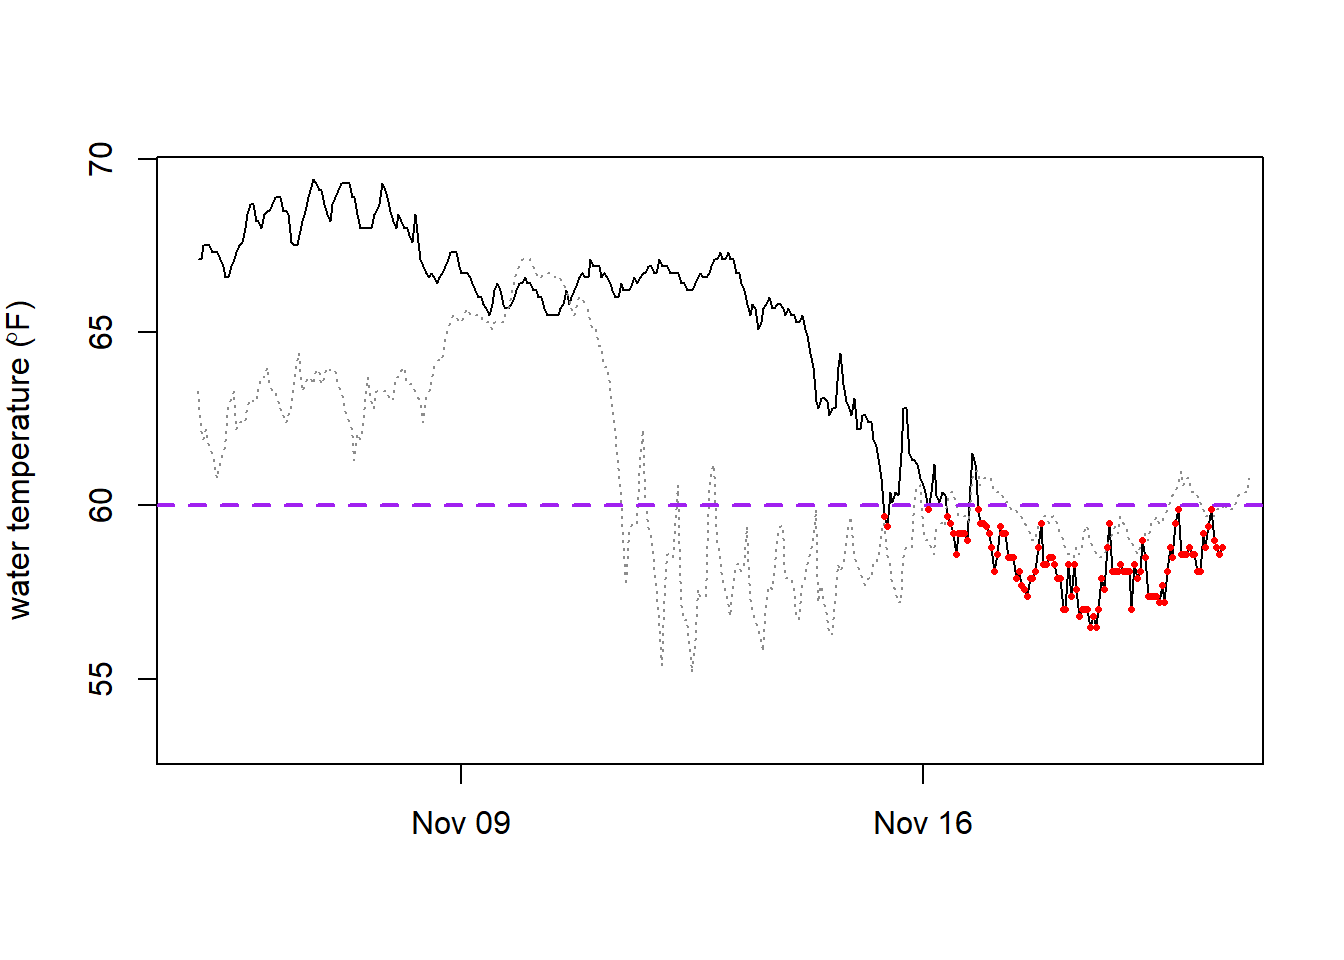
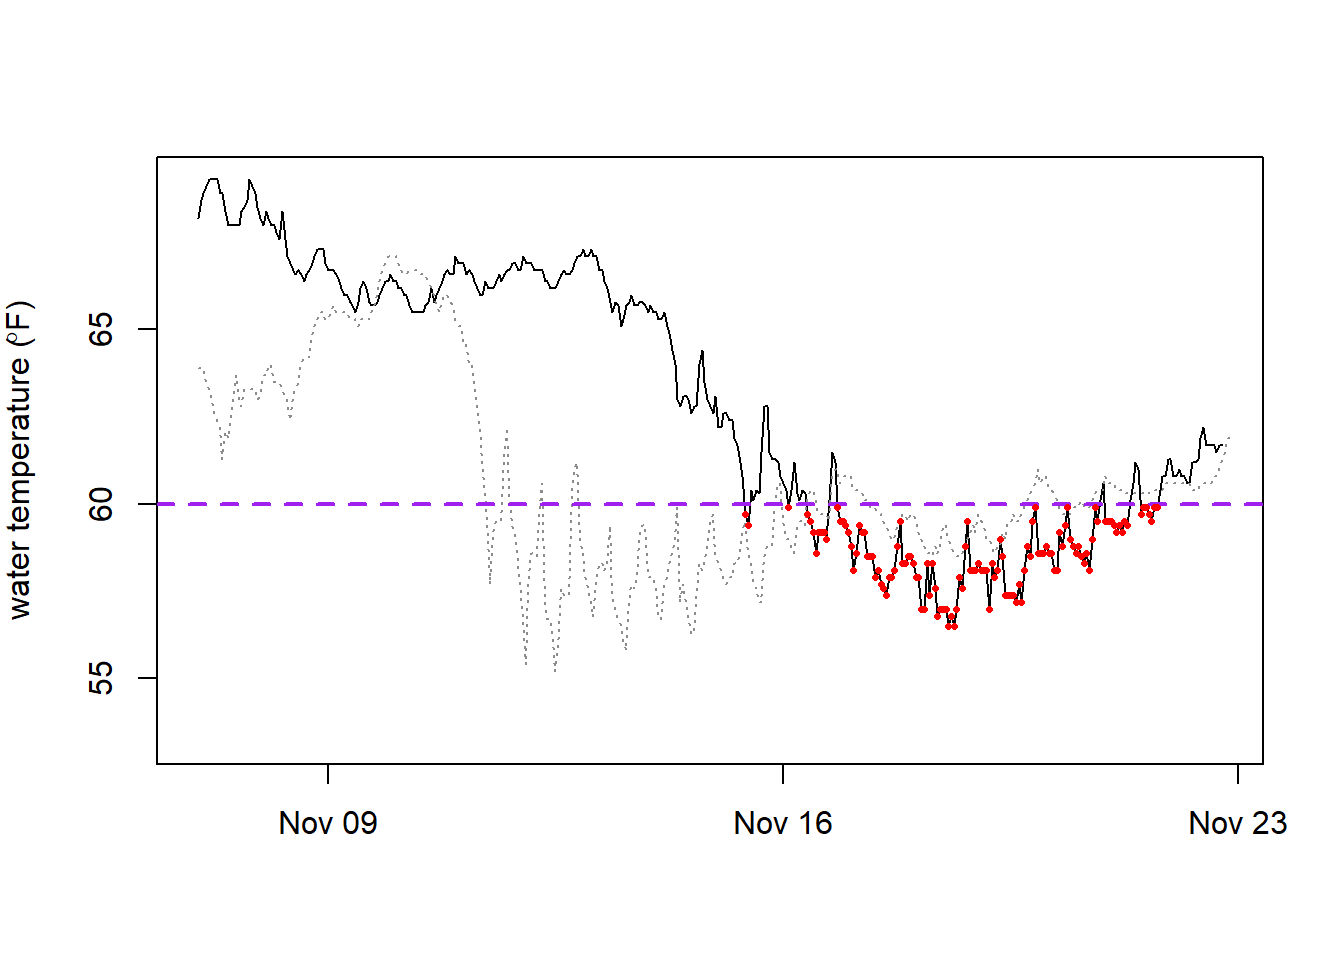
update

diff --git a/index.html b/index.html
@@ -6,7 +6,7 @@
 
 <meta name="viewport" content="width=device-width, initial-scale=1.0, user-scalable=yes">
 
-<meta name="dcterms.date" content="2026-11-20">
+<meta name="dcterms.date" content="2026-11-22">
 
 <title>water temp at 8656483</title>
 <style>
@@ -94,7 +94,7 @@ pre > code.sourceCode > span > a:first-child::before { text-decoration: underlin
     <div>
     <div class="quarto-title-meta-heading">Published</div>
     <div class="quarto-title-meta-contents">
-      <p class="date">November 20, 2026</p>
+      <p class="date">November 22, 2026</p>
     </div>
   </div>
   
